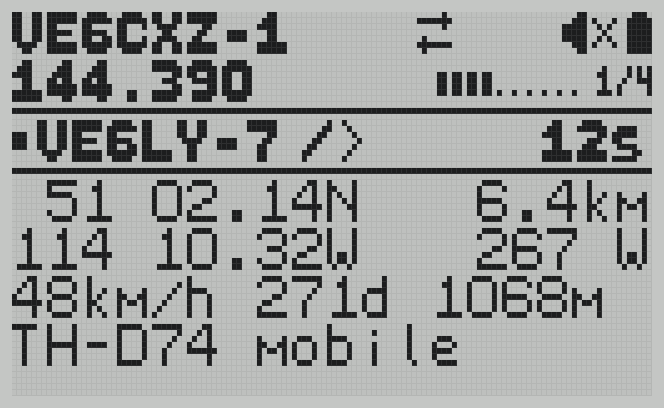
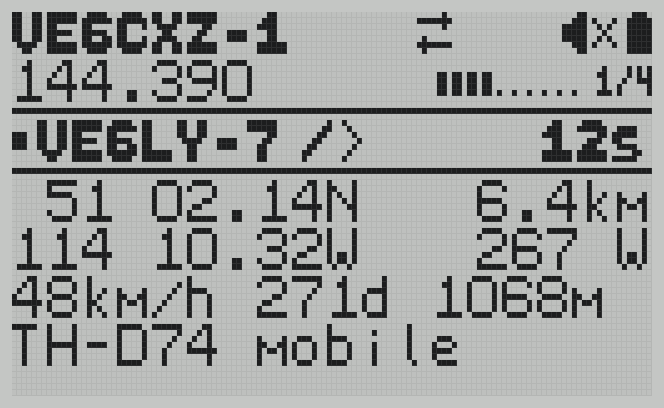
K5-APRS 0.9.2b: messages to services, UP/DOWN typing moves on
- Messages can go to any APRS addressee (1-9 of A-Z, 0-9, '-'), not just
  callsigns: RFDATA, ANSRVR, EMAIL-2, WHO-IS. The check moved to
  MSG_ValidAddressee() in msg.c, with tests.
- Text entry: UP/DOWN start the same one-second timeout as a number key,
  so the cursor moves on by itself and the next key types after the
  chosen character (no F needed after '?'). New test/test_textedit.c.
- CI: actions/checkout v7, upload-artifact v7, download-artifact v8
  (Node 24; clears the Node 20 deprecation warnings).
- Screenshots re-rendered for 0.9.2b and the plain frequency line.

Claude-Session: https://claude.ai/code/session_016WnyYgz6HAuiExD7AxTiVE

Changed region(s): [[0.2108, 0.1471, 0.3916, 0.2647], [0.0, 0.1471, 0.1807, 0.2647], [0.2108, 0.2353, 0.241, 0.2647]]

diff --git a/test/test_textedit.c b/test/test_textedit.c
@@ -1,0 +1,80 @@
+// Host test for textedit.c: multi-tap entry, and UP/DOWN moving on after
+// the same timeout (so "?" then a letter needs no F in between).
+#include <stdio.h>
+#include <string.h>
+
+#include "textedit.h"
+
+// drawing isn't tested here
+#include "gfx.h"
+uint8_t GFX_Text(uint8_t x, uint8_t p, const char *s) { (void)p; (void)s; return x; }
+void GFX_TextRight(uint8_t x, uint8_t p, const char *s) { (void)x; (void)p; (void)s; }
+void GFX_InvertPage(uint8_t p, uint8_t a, uint8_t b) { (void)p; (void)a; (void)b; }
+
+static int sPass, sFail;
+#define CHECK(c, ...) do { if (c) sPass++; else { sFail++; printf("FAIL %d: ", __LINE__); printf(__VA_ARGS__); printf("\n"); } } while (0)
+
+static void Press(KEY_Code_t k) { TE_Key((KeyEvent_t){ KEV_PRESS, k }); }
+static void Presses(KEY_Code_t k, int n) { while (n--) Press(k); }
+static void Wait(int ticks) { while (ticks--) TE_Tick10ms(); }
+
+int main(void)
+{
+    char t[16];
+
+    // multi-tap: 2 2 = B, a second later the cursor moves on
+    t[0] = '\0';
+    TE_Begin(t, 15, TE_TEXT, false);
+    Presses(KEY_2, 2);
+    CHECK(strcmp(t, "B") == 0 && TE_Cursor() == 0, "tapping B (got '%s' at %u)", t, TE_Cursor());
+    Wait(99);
+    CHECK(TE_Cursor() == 0, "not yet moved on");
+    Wait(1);
+    CHECK(TE_Cursor() == 1, "moved on after a second");
+
+    // UP to '?' (31 steps from space), then the timeout moves on: "B?A"
+    Presses(KEY_UP, '?' - ' ');
+    CHECK(strcmp(t, "B?") == 0 && TE_Cursor() == 1, "cycled to ? (got '%s')", t);
+    Wait(100);
+    CHECK(TE_Cursor() == 2, "UP/DOWN move on after a second too (cursor %u)", TE_Cursor());
+    Press(KEY_2);
+    CHECK(strcmp(t, "B?A") == 0, "letter after ? (got '%s')", t);
+    Wait(100);
+
+    // ... or a number key straight away moves on too
+    Presses(KEY_DOWN, 1);                  // space -> '~'
+    Press(KEY_3);
+    CHECK(strcmp(t, "B?A~D") == 0, "number key after UP/DOWN goes after it (got '%s')", t);
+    Wait(100);
+
+    // F after UP/DOWN moves on once, not twice
+    Press(KEY_UP);
+    Press(KEY_F);
+    CHECK(TE_Cursor() == 6 && strcmp(t, "B?A~D!") == 0, "F after UP: one step (got '%s' at %u)", t, TE_Cursor());
+
+    // a multi-tapped letter adjusted with UP stays one character
+    Press(KEY_2); Press(KEY_UP);
+    CHECK(strcmp(t, "B?A~D!B") == 0 && TE_Cursor() == 6, "tap then UP: same character (got '%s')", t);
+    Wait(100);
+    CHECK(TE_Cursor() == 7, "then moves on");
+
+    // fixed width (CALL-SSID): UP/DOWN move on, but not past the end
+    char c[10];
+    memcpy(c, "         ", 10);
+    TE_Begin(c, 9, TE_NAME, false);
+    Press(KEY_UP);
+    Wait(100);
+    CHECK(c[0] == 'A' && TE_Cursor() == 1, "fixed: UP then moves on (got '%s' at %u)", c, TE_Cursor());
+    for (int i = 0; i < 12; i++) { Press(KEY_UP); Wait(100); }
+    CHECK(TE_Cursor() == 8, "fixed: stops at the last character (%u)", TE_Cursor());
+
+    // holding UP (repeats) keeps the timer going
+    t[0] = '\0';
+    TE_Begin(t, 15, TE_TEXT, false);
+    Press(KEY_UP);
+    for (int i = 0; i < 5; i++) { Wait(60); TE_Key((KeyEvent_t){ KEV_REPEAT, KEY_UP }); }
+    CHECK(TE_Cursor() == 0 && t[0] == '!' + 5, "held: still on the same character (got '%s' at %u)", t, TE_Cursor());
+
+    printf("%d passed, %d failed\n", sPass, sFail);
+    return sFail != 0;
+}

diff --git a/src/textedit.c b/src/textedit.c
@@ -29,6 +29,7 @@ static uint8_t sMax;
 static TeMode  sMode;
 static uint8_t sCursor;
 static int8_t  sTapKey = -1;        // key being multi-tapped, -1 = none
+#define TAP_CYCLE 10                // ... or UP/DOWN (moves on after the timeout too)
 static uint8_t sTapIndex;
 static uint8_t sTapTicks;
 static bool    sFresh;
@@ -87,26 +88,29 @@ static void Keypad(uint8_t key)
     sTapTicks = MULTITAP_TICKS;
 }
 
-static void Cycle(int dir)              // UP/DOWN on the character at the cursor
+// UP/DOWN on the character at the cursor (also one just multi-tapped). Like
+// a multi-tap, the cursor moves on once the keys have been left for a second.
+static void Cycle(int dir)
 {
-    sTapKey = -1;
-    sFresh  = false;
+    sFresh = false;
     if (Fixed()) {
         const char *set = sMode == TE_CALL ? CALL_CHARS : NAME_CHARS;
         const int n = (int)strlen(set);
         const char *p = strchr(set, sBuf[sCursor]);
         const int i = p ? (int)(p - set) : 0;
         sBuf[sCursor] = set[(i + n + dir) % n];
-        return;
+    } else {
+        if (sCursor == Len()) {         // at the end: add a character to cycle
+            if (sCursor >= sMax)
+                return;
+            sBuf[sCursor] = ' ';
+            sBuf[sCursor + 1] = '\0';
+        }
+        const int c = sBuf[sCursor] - ' ', n = '~' - ' ' + 1;
+        sBuf[sCursor] = (char)(' ' + (c + n + dir) % n);
     }
-    if (sCursor == Len()) {             // at the end: add a character to cycle
-        if (sCursor >= sMax)
-            return;
-        sBuf[sCursor] = ' ';
-        sBuf[sCursor + 1] = '\0';
-    }
-    const int c = sBuf[sCursor] - ' ', n = '~' - ' ' + 1;
-    sBuf[sCursor] = (char)(' ' + (c + n + dir) % n);
+    sTapKey   = TAP_CYCLE;
+    sTapTicks = MULTITAP_TICKS;
 }
 
 static void MoveCursor(int dir)

diff --git a/src/inbox.c b/src/inbox.c
@@ -48,32 +48,13 @@ bool INBOX_IsComposing(void) { return sOpen && (sView == V_TO || sView == V_TEXT
 
 // ---------------------------------------------------------------- compose
 
-// "VE6HUE-7": 1-6 letters/digits with at least one of each, optional -SSID 0-15.
-static bool ValidCall(char *c)          // trims the padding
+// Trims the editor's padding, then checks it as an addressee (msg.h).
+static bool ValidCall(char *c)
 {
     uint8_t n = MSG_CALL_MAX;
     while (n && c[n - 1] == ' ') n--;
     c[n] = '\0';
-    const char *dash = strchr(c, '-');
-    const uint8_t base = dash ? (uint8_t)(dash - c) : n;
-    bool letter = false, digit = false;
-    if (base < 3 || base > 6) return false;
-    for (uint8_t i = 0; i < base; i++) {
-        if (c[i] >= 'A' && c[i] <= 'Z')      letter = true;
-        else if (c[i] >= '0' && c[i] <= '9') digit = true;
-        else return false;
-    }
-    if (dash) {
-        const char *s = dash + 1;
-        if (!*s || strlen(s) > 2) return false;
-        uint8_t v = 0;
-        for (; *s; s++) {
-            if (*s < '0' || *s > '9') return false;
-            v = (uint8_t)(v * 10 + (*s - '0'));
-        }
-        if (v < 1 || v > 15) return false;
-    }
-    return letter && digit;
+    return MSG_ValidAddressee(c);
 }
 
 static void ComposeTo(const char *call)  // NULL: ask for the callsign first
@@ -149,7 +130,7 @@ static void ComposeKey(KeyEvent_t ev)
             sView = V_TEXT;
         } else {                                // stay on it, padded again for the editor
             for (uint8_t i = (uint8_t)strlen(sTo); i < MSG_CALL_MAX; i++) sTo[i] = ' ';
-            APP_ShowMessage("BAD CALLSIGN", false);
+            APP_ShowMessage("BAD ADDRESSEE", false);
         }
         break;
     default:

diff --git a/test/test_msg.c b/test/test_msg.c
@@ -30,6 +30,14 @@ int main(void)
 {
     char ack[6];
 
+    // addressees: stations and services
+    const char *good[] = { "VE6HUE", "VE6HUE-7", "VE6CXZ-15", "RFDATA", "ANSRVR", "EMAIL-2", "WHO-IS", "WLNK-1", "BLN1", "A" };
+    const char *bad[]  = { "", "-RF", "RF-", "TOOLONGXYZ", "ve6hue", "VE6 HUE", "VE6HUE:", "RF.DATA" };
+    for (unsigned i = 0; i < sizeof good / sizeof *good; i++)
+        CHECK(MSG_ValidAddressee(good[i]), "addressee '%s' accepted", good[i]);
+    for (unsigned i = 0; i < sizeof bad / sizeof *bad; i++)
+        CHECK(!MSG_ValidAddressee(bad[i]), "addressee '%s' rejected", bad[i]);
+
     CHECK(Feed("VE6HUE-7", ":VE6CXZ-1 :hello there{42", 100, ack), "message stored");
     CHECK(strcmp(ack, "42") == 0, "ack id 42 (got '%s')", ack);
     CHECK(MSG_Count() == 1 && MSG_Unread() == 1, "one unread");

diff --git a/src/msg.h b/src/msg.h
@@ -63,6 +63,11 @@ void MSG_MarkRead(uint8_t i);
 void MSG_Delete(uint8_t i);
 bool MSG_TakeNew(void);                  // true once per newly stored message
 
+// Who a message can go to: 1-9 of A-Z, 0-9 and '-', not starting or
+// ending with '-'. A station ("VE6HUE-7") or a service without a digit or
+// a numeric SSID ("RFDATA", "ANSRVR", "EMAIL-2", "WHO-IS").
+bool MSG_ValidAddressee(const char *to);
+
 // Sends `text` to `to` (queued for the transmitter; retried until acked).
 // False if there's nowhere to send from: no callsign, not a TX frequency or
 // the TX queue is full.

diff --git a/src/msg.c b/src/msg.c
@@ -126,6 +126,19 @@ static bool SendCopy(AprsMessage *m)
     return Transmit(m->call, text);
 }
 
+bool MSG_ValidAddressee(const char *to)
+{
+    const size_t n = strlen(to);
+    if (n == 0 || n > MSG_CALL_MAX || to[0] == '-' || to[n - 1] == '-')
+        return false;
+    for (size_t i = 0; i < n; i++) {
+        const char c = to[i];
+        if (!((c >= 'A' && c <= 'Z') || (c >= '0' && c <= '9') || c == '-'))
+            return false;
+    }
+    return true;
+}
+
 bool MSG_Send(const char *to, const char *text, uint32_t now_s)
 {
     AprsMessage m;

diff --git a/src/textedit.h b/src/textedit.h
@@ -8,7 +8,7 @@
 
 // Keypad text entry, phone style: 2 = A B C 2 ..., the same key again within
 // a second cycles its characters, otherwise the cursor moves on.
-//   UP / DOWN    cycle the character at the cursor
+//   UP / DOWN    cycle the character at the cursor (moves on after a second too)
 //   * / F        cursor left / right
 //   SIDE1        upper / lower case (TE_TEXT)
 //   EXIT         delete (hold: cancel)

diff --git a/README.md b/README.md
@@ -3,7 +3,7 @@
 APRS station firmware for the Quansheng UV-K5: receive, beacon, digipeat,
 send and receive messages and run as a KISS TNC, all from a $30 handheld.
 
-This is K5-APRS 0.9.2a. It grew out of **[uv-k5-minimal](https://github.com/nsnw/uv-k5-minimal)**, a small
+This is K5-APRS 0.9.2b. It grew out of **[uv-k5-minimal](https://github.com/nsnw/uv-k5-minimal)**, a small
 from-scratch firmware for the same radio. The low-level drivers come from
 the open UV-K5 firmware projects (see [Credits](#credits)); everything above
 them is new, and was mostly written by Claude (see [Yes, an AI wrote this](#yes-an-ai-wrote-this)).
@@ -196,7 +196,7 @@ A B C 2, and pressing it again within a second moves to the next letter.
 | Key | Action |
 |---|---|
 | `0`–`9` | Letters and digits (`0` = space, `1` = punctuation) |
-| `UP` / `DOWN` | Step through every character at the cursor |
+| `UP` / `DOWN` | Step through every character at the cursor (moves on after a second, like a number key) |
 | `*` / `F` | Cursor left / right |
 | `SIDE1` | Upper / lower case |
 | `EXIT` | Delete (hold: cancel) |
@@ -209,7 +209,9 @@ before a key means hold it.
 Writing a message is one screen: **To** with the callsign and SSID as one
 field (`VE6LY-7`; `1` types the `-`), then the text, with its length at the
 right. `MENU` moves from the callsign to the text, then sends; `EXIT` with no
-text yet goes back to the callsign. A reply starts in the text.
+text yet goes back to the callsign. A reply starts in the text. Services
+work too (`RFDATA`, `ANSRVR`, `EMAIL-2`, `WHO-IS`): any 1–9 letters, digits
+and dashes.
 
 ## Getting started
 
